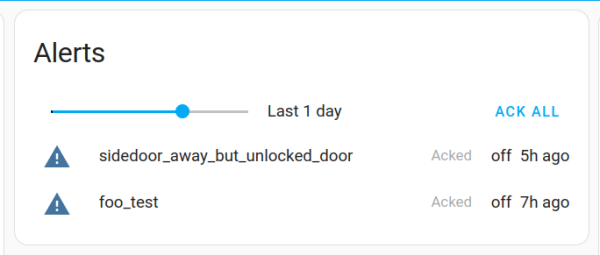
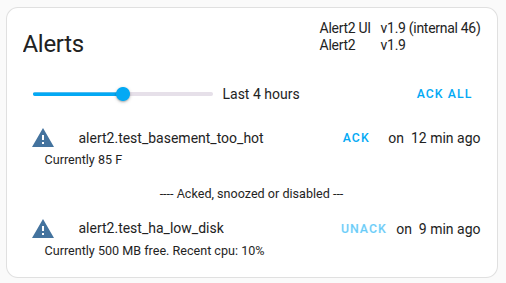
Update doc and screenshots

diff --git a/README.md b/README.md
@@ -45,9 +45,10 @@ Alert2 is a [Home Assistant](https://www.home-assistant.io/) component that supp
 - **Snooze / disable / throttle notifications**. Handy for noisy sensors or while developing your alerts.
 - **Template notifiers**. Dynamically specify who gets notified.
 - **Generator patterns**. Dynamically define multiple similar alerts, with wildcard support.
-- **Manage alerts in UI**. Create or edit alerts via the UI. Reload YAML via the UI without restarting HA.
+- **UI**
+   - Create or edit alerts via the UI. Also reload YAML without restarting HA.
+   - Overview card showing recently active alerts and custom, dynamic messages.
 - **Persistent notification details**. In your HA dashboard, you can view past alert firings as well as the message text sent in notifications.
-- **Custom frontend cards**. Makes it easier to view and manage alerts.
 - **Hysteresis**. Reduce spurious alerts as sensors fluctuate.
 
 Suggestions welcome! Start a [Discussion](https://github.com/redstone99/hass-alert2/discussions) or file an [Issue](https://github.com/redstone99/hass-alert2/issues).  Or follow the [development thread](https://community.home-assistant.io/t/alert2-a-new-alerting-component).
